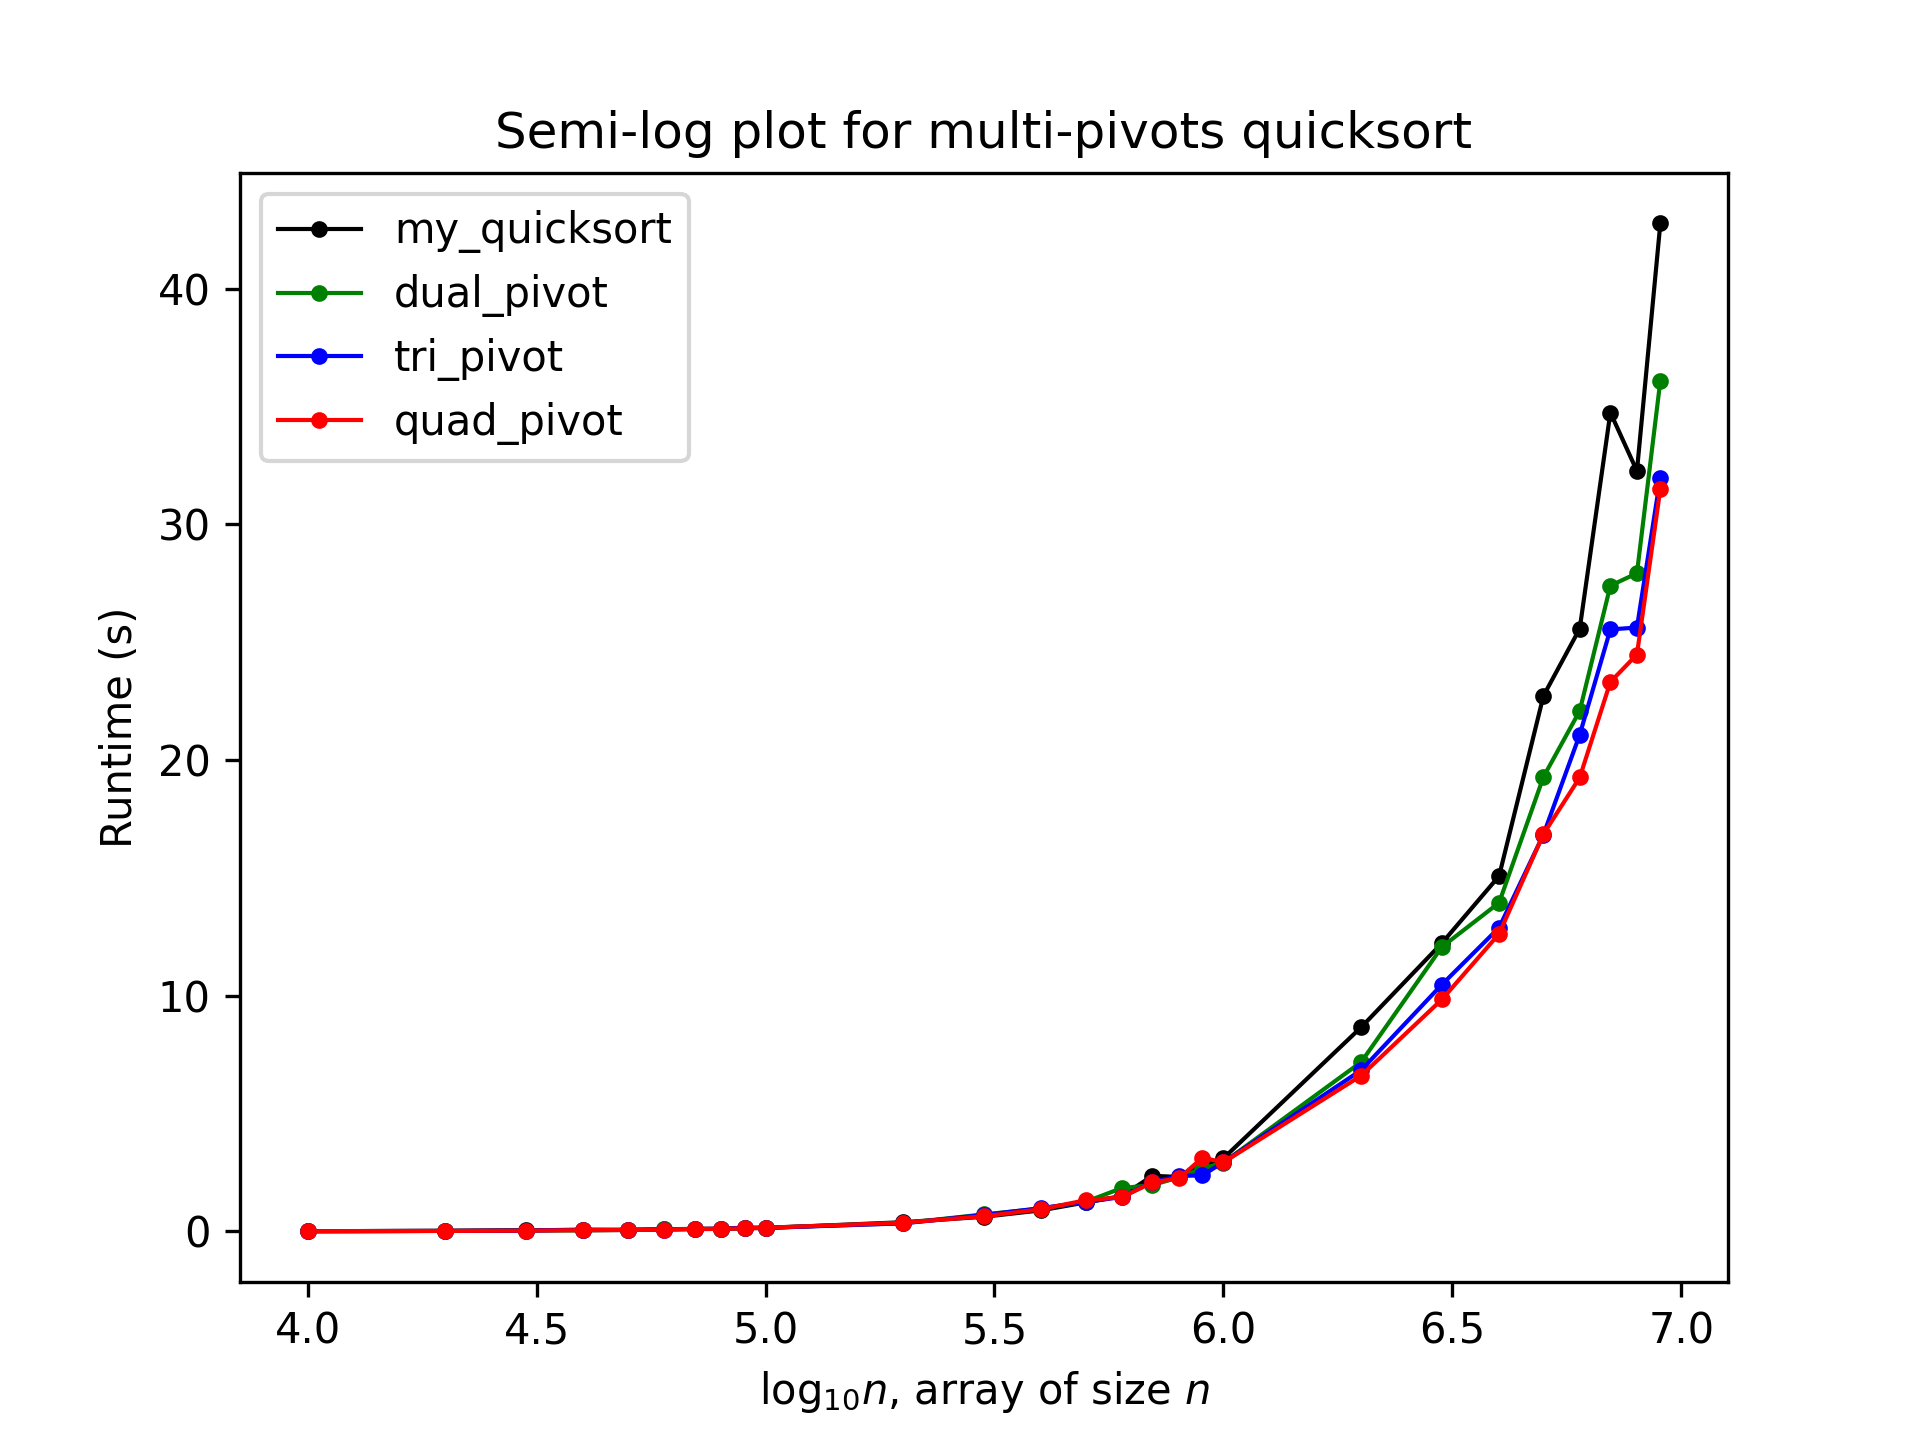
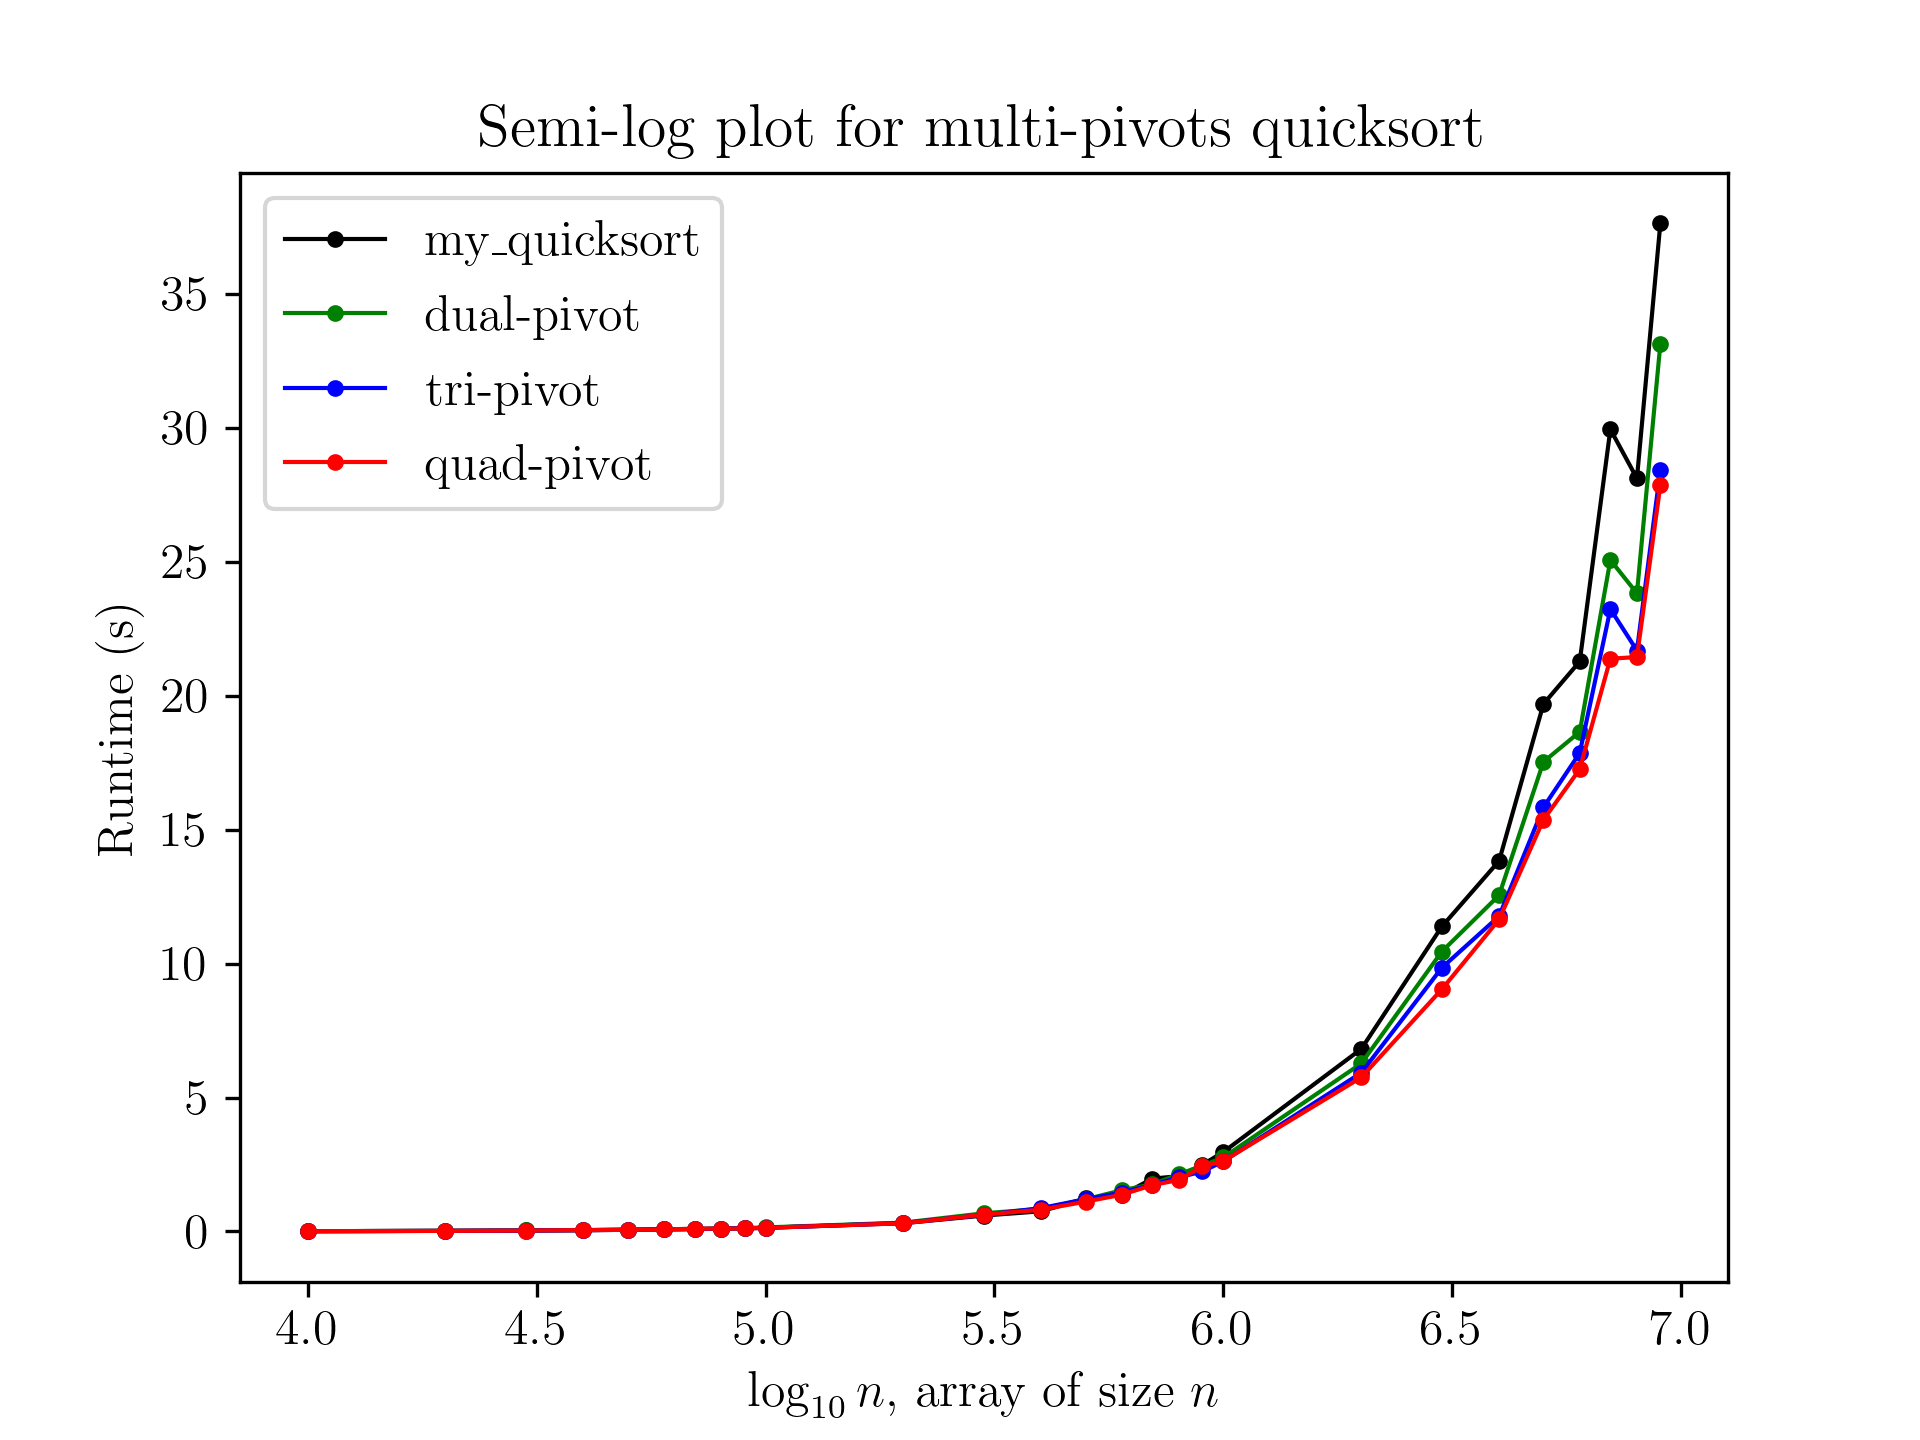
changed figure fonts

diff --git a/lab3/code.py b/lab3/code.py
@@ -4,6 +4,7 @@ from multiprocessing import Pool
 
 import matplotlib.pyplot as plt
 import numpy as np
+from matplotlib import rc
 
 from lab3 import create_near_sorted_list, create_random_list, my_quicksort
 from sorts import (bubble_sort, dual_pivot_quicksort, insertion_sort,
@@ -11,6 +12,8 @@ from sorts import (bubble_sort, dual_pivot_quicksort, insertion_sort,
                    tri_pivot_quicksort)
 
 sys.setrecursionlimit(2000)
+rc("font", **{"family": "serif", "size": 12})
+rc("text", usetex=True)
 
 
 # in-place version timing experiments
@@ -95,13 +98,13 @@ def multp_exp():
     # plotting for muti-poivt
     plt.figure()
     plt.plot(N_log10, qs1_data,
-             "o-", color="black", lw=1, ms=3, label="my_quicksort")
+             "o-", color="black", lw=1, ms=3, label="my\_quicksort")
     plt.plot(N_log10, qs2_data,
-             "o-", color="green", lw=1, ms=3, label="dual_pivot")
+             "o-", color="green", lw=1, ms=3, label="dual-pivot")
     plt.plot(N_log10, qs3_data,
-             "o-", color="blue", lw=1, ms=3, label="tri_pivot")
+             "o-", color="blue", lw=1, ms=3, label="tri-pivot")
     plt.plot(N_log10, qs4_data,
-             "o-", color="red", lw=1, ms=3, label="quad_pivot")
+             "o-", color="red", lw=1, ms=3, label="quad-pivot")
     plt.legend()
     plt.title("Semi-log plot for multi-pivots quicksort")
     plt.xlabel("$\log_{10}{n}$, array of size $n$")
@@ -181,7 +184,7 @@ def worst_exp():
     plt.plot(N, sel_data, color="blue", linewidth=1, label="selection sort")
     plt.plot(N, ins_data, color="red", linewidth=1, label="insertion sort")
     plt.title("Quad-pivot quicksort and elementary sorts on near-sorted-lists")
-    plt.xlabel("Sorted Factor (%)")
+    plt.xlabel("Sorted Factor (\%)")
     plt.ylabel("Runtime (s)")
     plt.legend()
     plt.savefig("images/near-sorted.png", dpi=300)
@@ -221,11 +224,11 @@ def small_exp():
     ins_data = np.array(ins_res)
 
     # plotting for muti-poivt
-    plt.figure()
-    plt.plot(N, qui_data, color="black", lw=1, label="quicksort_inplace")
-    plt.plot(N, bub_data, color="green", lw=1, label="bubble_sort")
-    plt.plot(N, sel_data, color="blue", lw=1, label="selection_sort")
-    plt.plot(N, ins_data, color="red", lw=1, label="insertion_sort")
+    plt.figure(figsize=(7, 4.8))
+    plt.plot(N, qui_data, color="black", lw=1, label="quicksort\_inplace")
+    plt.plot(N, bub_data, color="green", lw=1, label="bubble sort")
+    plt.plot(N, sel_data, color="blue", lw=1, label="selection sort")
+    plt.plot(N, ins_data, color="red", lw=1, label="insertion sort")
     plt.legend()
     plt.title("Runtime of elementary sorts on small lists")
     plt.xlabel("$n$, array size")
@@ -236,5 +239,5 @@ def small_exp():
 if __name__ == "__main__":
     # ip_exp()
     # multp_exp()
-    worst_exp()
-    # small_exp()
+    # worst_exp()
+    small_exp()
